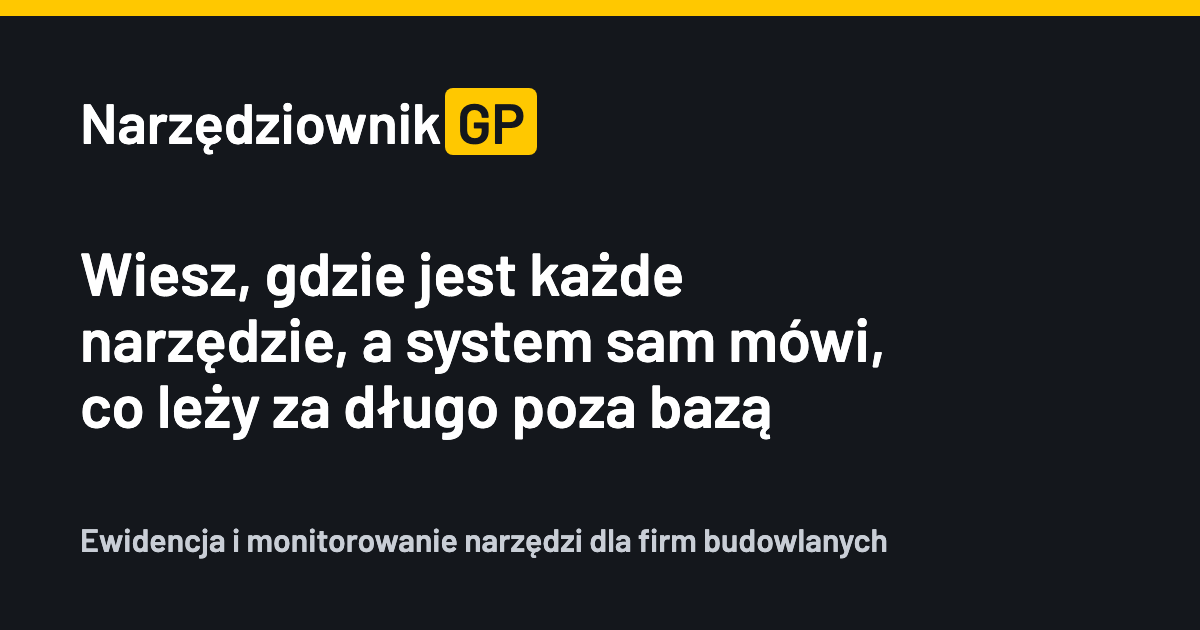
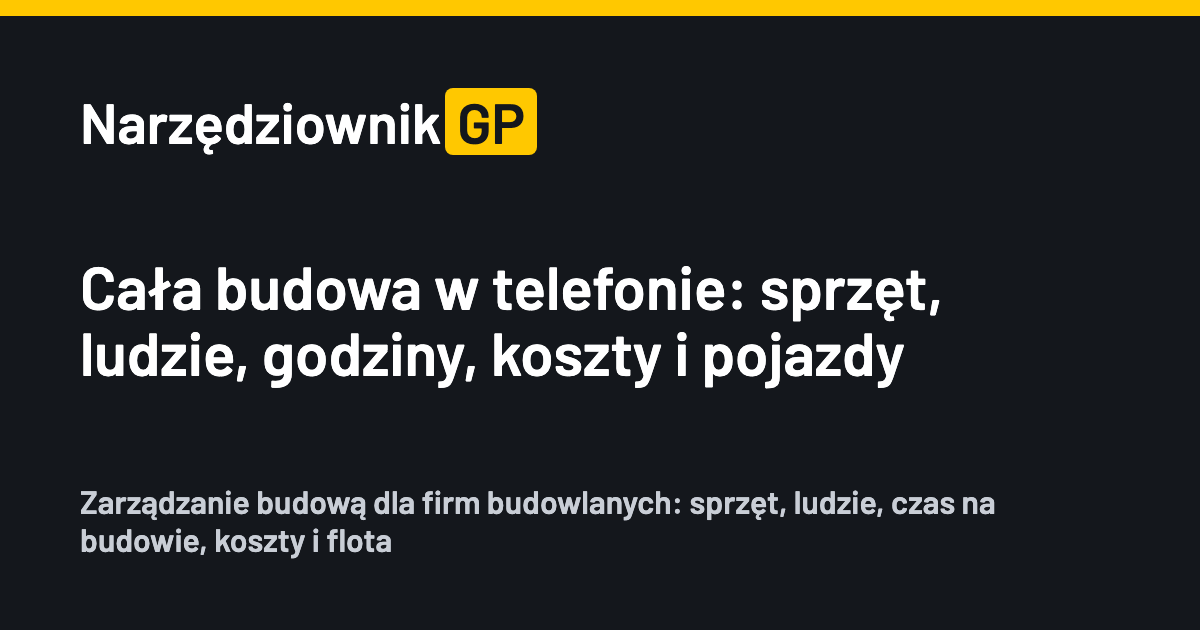
Strona o programie: zarządzanie budową z modułami
Strona o programie opowiada o zarządzaniu budową dla firm budowlanych, a ewidencja
narzędzi jest jednym z modułów (ADR 0027). Nowe hasło i opis dla wyszukiwarki,
skróty do modułów pod hasłem, karta przy mapie z przykładami z kilku modułów,
sekcja „Moduły w jednym programie” (sprzęt, koszty, odbijanie, ludzie, pojazdy,
firma), „Wszystkie moduły w cenie” w cenniku i 14 pytań zamiast 10. Nowy obrazek
podglądu linku, opis w CONTEXT.md i README.

Changed region(s): [[0.0617, 0.3921, 0.8017, 0.6937], [0.0617, 0.7841, 0.8325, 0.8746]]

diff --git a/src/app/o-programie/page.tsx b/src/app/o-programie/page.tsx
@@ -35,14 +35,33 @@ export const metadata: Metadata = {
 /** Wąski krój nagłówków jak na tablicach budowy; tylko na tej stronie. */
 const display = Barlow_Condensed({ variable: "--font-display", subsets: ["latin", "latin-ext"], weight: ["600", "700"] });
 
+/** Moduły programu (ADR 0027), wszystkie w cenie abonamentu; ewidencja sprzętu to jeden z nich. */
 const FEATURE_GROUPS = [
-  { id: "watch", features: ["alarms", "reports", "value"] },
-  { id: "field", features: ["voice", "offline", "stickers", "places"] },
-  { id: "team", features: ["workers", "issues", "import", "chat"] },
+  { id: "tools", features: ["stickers", "places", "voice", "offline", "alarms", "deadlines", "rented", "import"] },
+  { id: "costs", features: ["dailyRate", "siteCosts", "costSummary", "value"] },
+  { id: "time", features: ["poster", "location", "crew", "forgotten", "siteHours"] },
+  { id: "people", features: ["peopleList", "certificates", "workers"] },
+  { id: "fleet", features: ["vehicleData", "vehicleDeadlines"] },
+  { id: "company", features: ["reports", "map", "issues", "chat"] },
 ] as const;
 const STEPS = ["import", "stickers", "movements", "alarms"] as const;
 /** Pytania, które właściciel firmy wpisuje w wyszukiwarkę, zanim kupi program. */
-const FAQ = ["what", "install", "stickers", "offline", "deadlines", "roles", "import", "price", "data", "demo"] as const;
+const FAQ = [
+  "what",
+  "install",
+  "hours",
+  "tracking",
+  "certificates",
+  "costs",
+  "deadlines",
+  "stickers",
+  "offline",
+  "roles",
+  "import",
+  "price",
+  "data",
+  "demo",
+] as const;
 
 /** Pinezki z podpisem; alarmowa pulsuje. */
 const PIN_LABELS = { rataje: "landing.hero.pins.rataje", tarasy: "landing.hero.pins.tarasy", polna: "landing.hero.pins.polna" } as const;
@@ -94,29 +113,29 @@ function HeroMap() {
   );
 }
 
+/** Wiersz przykładu: kod albo numer rejestracyjny, nazwa, miejsce, dopisek i jego odcień jak na tablicy. */
+const PREVIEW_TAGS: Record<string, string> = { alarm: "tag tag-alarm", rented: "tag tag-rented", done: "tag tag-done" };
+
+/** Po jednym przykładzie z modułów: sprzęt ponad próg dni, sprzęt wynajęty, odbicie i termin pojazdu. */
 function BoardPreview() {
   const rows = lines(t("landing.preview.rows")).map((row) => row.split("|"));
   return (
     <figure className="landing-preview">
       <div className="landing-preview-total">
-        <span className="muted">{t("landing.preview.outside")}</span>
-        <strong>{formatMoney(48300)}</strong>
+        <span className="muted">{t("landing.preview.cost")}</span>
+        <strong>{formatMoney(12840)}</strong>
       </div>
       <ul>
-        {rows.map(([code, name, place, days], index) => {
-          // Pierwszy wiersz przykładu stoi na budowie ponad próg dni.
-          const alarm = index === 0;
-          return (
-            <li key={code}>
-              <span className="plate">{code}</span>
-              <span className="landing-preview-tool">
-                <strong>{name}</strong>
-                <span className="muted">{place}</span>
-              </span>
-              <span className={alarm ? "tag tag-alarm" : "tag"}>{alarm ? `${days}, ${t("landing.preview.alarm")}` : days}</span>
-            </li>
-          );
-        })}
+        {rows.map(([code, name, place, tag, tone]) => (
+          <li key={code}>
+            <span className="plate">{code}</span>
+            <span className="landing-preview-tool">
+              <strong>{name}</strong>
+              <span className="muted">{place}</span>
+            </span>
+            <span className={PREVIEW_TAGS[tone] ?? "tag"}>{tag}</span>
+          </li>
+        ))}
       </ul>
       <figcaption className="muted">{t("landing.preview.label")}</figcaption>
     </figure>
@@ -175,6 +194,13 @@ export default function LandingPage() {
               {t("landing.hero.headingLead")} <span>{t("landing.hero.headingRest")}</span>
             </h1>
             <p className="landing-lead">{t("landing.hero.lead")}</p>
+            <ul className="landing-modules" aria-label={t("landing.hero.modules")}>
+              {FEATURE_GROUPS.map((group) => (
+                <li key={group.id}>
+                  <a href={`#modul-${group.id}`}>{t(`landing.features.groups.${group.id}.title`)}</a>
+                </li>
+              ))}
+            </ul>
             <div className="landing-actions">
               <Link href="/demo" className="button">
                 {t("landing.hero.demo")}
@@ -194,9 +220,13 @@ export default function LandingPage() {
           <h2 id="funkcje" className="landing-section-title">
             {t("landing.features.title")}
           </h2>
+          <p className="landing-lead">{t("landing.features.lead")}</p>
           {FEATURE_GROUPS.map((group) => (
-            <div key={group.id} className="landing-feature-group">
-              <h3>{t(`landing.features.groups.${group.id}.title`)}</h3>
+            <div key={group.id} id={`modul-${group.id}`} className="landing-feature-group">
+              <div className="landing-feature-head">
+                <h3>{t(`landing.features.groups.${group.id}.title`)}</h3>
+                <p>{t(`landing.features.groups.${group.id}.text`)}</p>
+              </div>
               <ul>
                 {group.features.map((feature, index) => (
                   <li key={feature}>
@@ -257,6 +287,7 @@ export default function LandingPage() {
                 <p className="landing-plan-limit">{plan.limit}</p>
                 <Price price={plan.price} period={plan.period} />
                 <p className="muted">{t("landing.pricing.accounts")}</p>
+                <p className="muted">{t("landing.pricing.modules")}</p>
               </li>
             ))}
           </ul>

diff --git a/e2e/landing.spec.ts b/e2e/landing.spec.ts
@@ -3,12 +3,16 @@ import { expect, test } from "@playwright/test";
 test("niezalogowany pod adresem głównym widzi stronę o programie z cennikiem, kontaktem i wejściem do demo", async ({ page }) => {
   await page.goto("/");
   await expect(page).toHaveURL(/\/$/);
-  await expect(page.getByRole("heading", { level: 1 })).toHaveText("Wiesz, gdzie jest każde narzędzie, a system sam mówi, co leży za długo poza bazą");
+  await expect(page.getByRole("heading", { level: 1 })).toHaveText("Cała budowa w telefonie: sprzęt, ludzie, godziny, koszty i pojazdy");
 
   // Strona o programie trafia do wyszukiwarki i ma podgląd linku, a strony aplikacji nie.
   await expect(page.locator('meta[name="robots"]')).toHaveAttribute("content", "index, follow");
   await expect(page.locator('meta[property="og:image"]')).toHaveAttribute("content", /\/og\.png$/);
 
+  // Ewidencja sprzętu to jeden z modułów; skrót pod hasłem prowadzi do opisu modułu.
+  await page.getByRole("list", { name: "Moduły programu" }).getByRole("link", { name: "Odbijanie i czas na budowie" }).click();
+  await expect(page).toHaveURL(/#modul-time$/);
+  await expect(page.getByRole("heading", { name: "Plakat budowy z kodem QR" })).toBeVisible();
   await expect(page.getByRole("heading", { name: "Czat z supportem w aplikacji" })).toBeVisible();
   await expect(page.getByRole("heading", { name: "Pomoc zawsze pod ręką" })).toBeVisible();
 
@@ -16,6 +20,7 @@ test("niezalogowany pod adresem głównym widzi stronę o programie z cennikiem,
   const pricing = page.getByRole("region", { name: "Cennik" });
   await expect(pricing.getByRole("listitem", { name: "Mały" })).toContainText("do 150 narzędzi");
   await expect(pricing.getByRole("listitem", { name: "Mały" })).toContainText("300 zł netto za rok");
+  await expect(pricing.getByRole("listitem", { name: "Mały" })).toContainText("Wszystkie moduły w cenie");
   await expect(pricing.getByRole("listitem", { name: "Duży" })).toContainText("1 000 zł netto za rok");
   await expect(pricing.getByRole("listitem", { name: "Indywidualny" })).toContainText("ponad 1000 narzędzi");
   // Wdrożenie według liczby osób zapisujących ruchy, właściciel też się liczy.
@@ -28,8 +33,8 @@ test("niezalogowany pod adresem głównym widzi stronę o programie z cennikiem,
   // Pytania, które wpisuje się w wyszukiwarkę; cena w odpowiedzi z tego samego cennika.
   await page.getByRole("link", { name: "Pytania" }).click();
   const faq = page.getByRole("region", { name: "Pytania i odpowiedzi" });
-  await expect(faq.getByRole("term")).toHaveCount(10);
-  await expect(faq).toContainText("do 150 narzędzi kosztuje 300 zł netto za rok");
+  await expect(faq.getByRole("term")).toHaveCount(14);
+  await expect(faq).toContainText("do 150 narzędzi kosztuje 300 zł netto za rok, ze wszystkimi modułami");
   await expect(faq).toContainText("wdrożenie ze szkoleniem, od 3 000 zł netto");
 
   const contact = page.getByRole("region", { name: "Porozmawiajmy" });

diff --git a/src/app/globals.css b/src/app/globals.css
@@ -3385,6 +3385,30 @@ a.tool-row:hover .tool-row-name {
   }
 }
 
+/* Moduły pod hasłem: skróty do ich opisów niżej. */
+.landing-modules {
+  list-style: none;
+  display: flex;
+  flex-wrap: wrap;
+  gap: 6px;
+}
+
+.landing-modules a {
+  display: inline-block;
+  padding: 2px 10px;
+  font-size: 0.92rem;
+  border: 1px solid var(--border-strong);
+  border-radius: 999px;
+  background: var(--surface);
+  color: var(--text);
+  font-weight: 600;
+  text-decoration: none;
+}
+
+.landing-modules a:hover {
+  border-color: var(--brand-ink);
+}
+
 /* Karta tablicy wchodzi na mapę jak dymek do pinezki. */
 .landing-preview {
   position: relative;
@@ -3510,8 +3534,18 @@ a.tool-row:hover .tool-row-name {
   border-top: 2px solid var(--brand-ink);
 }
 
-.landing-feature-group > h3 {
+.landing-feature-head {
+  display: grid;
+  gap: 4px;
+  align-content: start;
+}
+
+.landing-feature-head h3 {
   font-size: 1.6rem;
+}
+
+.landing-feature-head p {
+  color: var(--text-muted);
 }
 
 .landing-feature-group ul {
@@ -3551,7 +3585,7 @@ a.tool-row:hover .tool-row-name {
     gap: 32px;
   }
 
-  .landing-feature-group > h3 {
+  .landing-feature-head {
     position: sticky;
     top: 24px;
     align-self: start;

diff --git a/CONTEXT.md b/CONTEXT.md
@@ -1,6 +1,6 @@
 # NarzędziownikGP
 
-Ewidencja i monitorowanie narzędzi dla małych firm budowlanych: gdzie w danej chwili jest każdy egzemplarz sprzętu, kto za niego odpowiada i co leży za długo poza bazą.
+Program do zarządzania budową dla firm budowlanych. Rdzeniem jest ewidencja i monitorowanie narzędzi: gdzie w danej chwili jest każdy egzemplarz sprzętu, kto za niego odpowiada i co leży za długo poza bazą. Wokół niej są moduły: koszt sprzętu, kartoteka Ludzie z uprawnieniami, odbijanie na budowie i flota.
 
 ## Ludzie i role
 

diff --git a/README.md b/README.md
@@ -1,6 +1,6 @@
 # NarzędziownikGP
 
-Ewidencja i monitorowanie narzędzi dla małych firm budowlanych (produkt GP Engineering).
+Zarządzanie budową dla firm budowlanych: ewidencja narzędzi, koszt sprzętu, ludzie z uprawnieniami, odbijanie na budowie i flota (produkt GP Engineering).
 Specyfikacja MVP: issue #1.
 
 Stos: Next.js 16 (App Router, TypeScript), Supabase (Postgres z RLS, Auth), Vercel (`fra1`).
